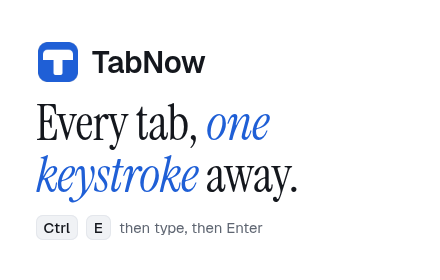
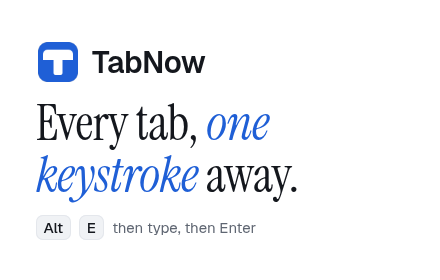
Open TabNow with Alt+E (Cmd+E on a Mac), bump to 0.1.1

Changed region(s): [[0.0886, 0.7714, 0.5909, 0.8571]]

diff --git a/extension/tools/store-tiles.html b/extension/tools/store-tiles.html
@@ -42,7 +42,7 @@
 <script>
   const q = new URLSearchParams(location.search), size = q.get("size") ?? "small";
   const brand = '<div class="brand"><img src="/ext/icons/icon-128.png" alt="">TabNow</div>';
-  const keys = '<div class="keys"><kbd>Ctrl</kbd><kbd>E</kbd>then type, then Enter</div>';
+  const keys = '<div class="keys"><kbd>Alt</kbd><kbd>E</kbd>then type, then Enter</div>';
   const s = encodeURIComponent(JSON.stringify({ q: "gh pr" }));
   document.getElementById("t").className = size;
   document.getElementById("t").innerHTML = size === "small"

diff --git a/README.md b/README.md
@@ -1,12 +1,12 @@
 # <img src="extension/icons/icon-128.png" width="40" align="center" alt=""> TabNow
 
-Fuzzy search across every open tab in every window. Press `Ctrl+E`, type, hit Enter.
+Fuzzy search across every open tab in every window. Press `Alt+E` (`Cmd+E` on a Mac), type, hit Enter.
 
 ![TabNow demo: fuzzy match a tab, scope to bookmarks with /, switch to dark with Alt+T](docs/demo.gif)
 
 ## Features
 
-- Searches all windows. Most recently used first, with the previous tab preselected, so `Ctrl+E` then `Enter` flips back.
+- Searches all windows. Most recently used first, with the previous tab preselected, so `Alt+E` then `Enter` flips back.
 - Fuzzy matching ranks domain over title over the rest of the URL.
 - Tabs from other windows show a faint second card behind their favicon (hover it for "In another window").
 - Optionally searches history and bookmarks too (off by default), listed below the open tabs.
@@ -18,11 +18,11 @@ Fuzzy search across every open tab in every window. Press `Ctrl+E`, type, hit En
 
 **[Install TabNow from the Chrome Web Store](https://chromewebstore.google.com/detail/tabnow-fuzzy-tab-search/mepimfhgphlbfopbenbiojhbgekineih)**
 
-Works in Chrome 121+ and other Chromium browsers (Edge, Brave, Opera, Vivaldi, Arc). After installing, press `Ctrl+E` on any page. To change the shortcut, open `chrome://extensions/shortcuts`.
+Works in Chrome 121+ and other Chromium browsers (Edge, Brave, Opera, Vivaldi, Arc). After installing, press `Alt+E` (`Cmd+E` on a Mac) on any page. To change the shortcut, open `chrome://extensions/shortcuts`.
 
 ## Keyboard shortcuts
 
-Open TabNow with `Ctrl+E` (`Cmd+E` on macOS) or the toolbar button. It shows as a centered overlay on the current page. Pressing `Ctrl+E` again while it is open closes it.
+Open TabNow with `Alt+E` (`Cmd+E` on a Mac) or the toolbar button. It shows as a centered overlay on the current page. Pressing `Alt+E` again while it is open closes it.
 
 On open, tabs are listed most recently used first and the previous tab is preselected.
 
@@ -53,7 +53,7 @@ On open, tabs are listed most recently used first and the previous tab is presel
 
 Tips:
 
-- `Alt+Z` switches straight to your previous tab without opening TabNow, in any window. Press it again to flip back. (`Ctrl+E`, `Enter` does the same through the list.)
+- `Alt+Z` switches straight to your previous tab without opening TabNow, in any window. Press it again to flip back. (`Alt+E`, `Enter` does the same through the list.)
 - `Ctrl+N` is not used for moving down: the browser reserves it for "new window" and pages cannot intercept it. Use `Ctrl+J` / `Ctrl+K` instead.
 
 Change the opening shortcut and the `Alt+Z` previous-tab shortcut at `brave://extensions/shortcuts` (or `chrome://extensions/shortcuts`): TabNow, "Activate the extension" and "Switch to previous tab".

diff --git a/extension/store/listing.md b/extension/store/listing.md
@@ -21,9 +21,9 @@ Fast fuzzy search across all your open tabs.
 
 Plain text, paste as is. No markdown.
 
-TabNow finds any open tab in a few keystrokes. Press Ctrl+E (Cmd+E on a Mac), type a few letters, press Enter. You are on that tab.
+TabNow finds any open tab in a few keystrokes. Press Alt+E (Cmd+E on a Mac), type a few letters, press Enter. You are on that tab.
 
-It searches every tab in every window. The most recently used tabs come first, and the previous tab is already selected, so Ctrl+E then Enter takes you back to where you just were.
+It searches every tab in every window. The most recently used tabs come first, and the previous tab is already selected, so Alt+E then Enter takes you back to where you just were.
 
 What it does
 - Fuzzy search. Type words in any order: "gh pr" finds a GitHub pull request. All words must match. A match in the site name ranks above the title, and the title above the rest of the address. Matched letters are highlighted.
@@ -38,7 +38,7 @@ Private by design
 TabNow makes no network requests. It has no account, no analytics and no ads, and it loads no code from the internet. Your tabs, bookmarks and history are read on your device to fill the list and are never sent anywhere. Only your settings are stored, with the browser's own storage. The code is open source (MIT).
 
 Good to know
-- The shortcut Ctrl+E replaces Chrome's Ctrl+E (search from the address bar) while the extension is installed. You can change it at chrome://extensions/shortcuts.
+- The shortcut is Alt+E (Cmd+E on a Mac). On Windows and Linux, Chrome uses Alt+E (and Alt+F) to open its menu; TabNow takes Alt+E, and Alt+F still opens the menu. You can change the shortcut at chrome://extensions/shortcuts.
 - Chrome pages (chrome://), the new tab page and the Web Store cannot show the search box on the page, so TabNow opens it in a small window there.
 - Works in Chrome 121 or newer, and in other browsers that install extensions from the Chrome Web Store.
 
@@ -120,5 +120,5 @@ No. All code is in the package. There is no `eval`, no remote script, no `fetch`
 
 ## Tester notes (Edge Add-ons asks for them; harmless for Chrome)
 
-Open any web page, press Ctrl+E, type a few letters of an open tab's title and press Enter. Press / to see the
+Open any web page, press Alt+E, type a few letters of an open tab's title and press Enter. Press / to see the
 scopes (bookmarks and history are off until you turn them on in the options page). No account or key is needed.
